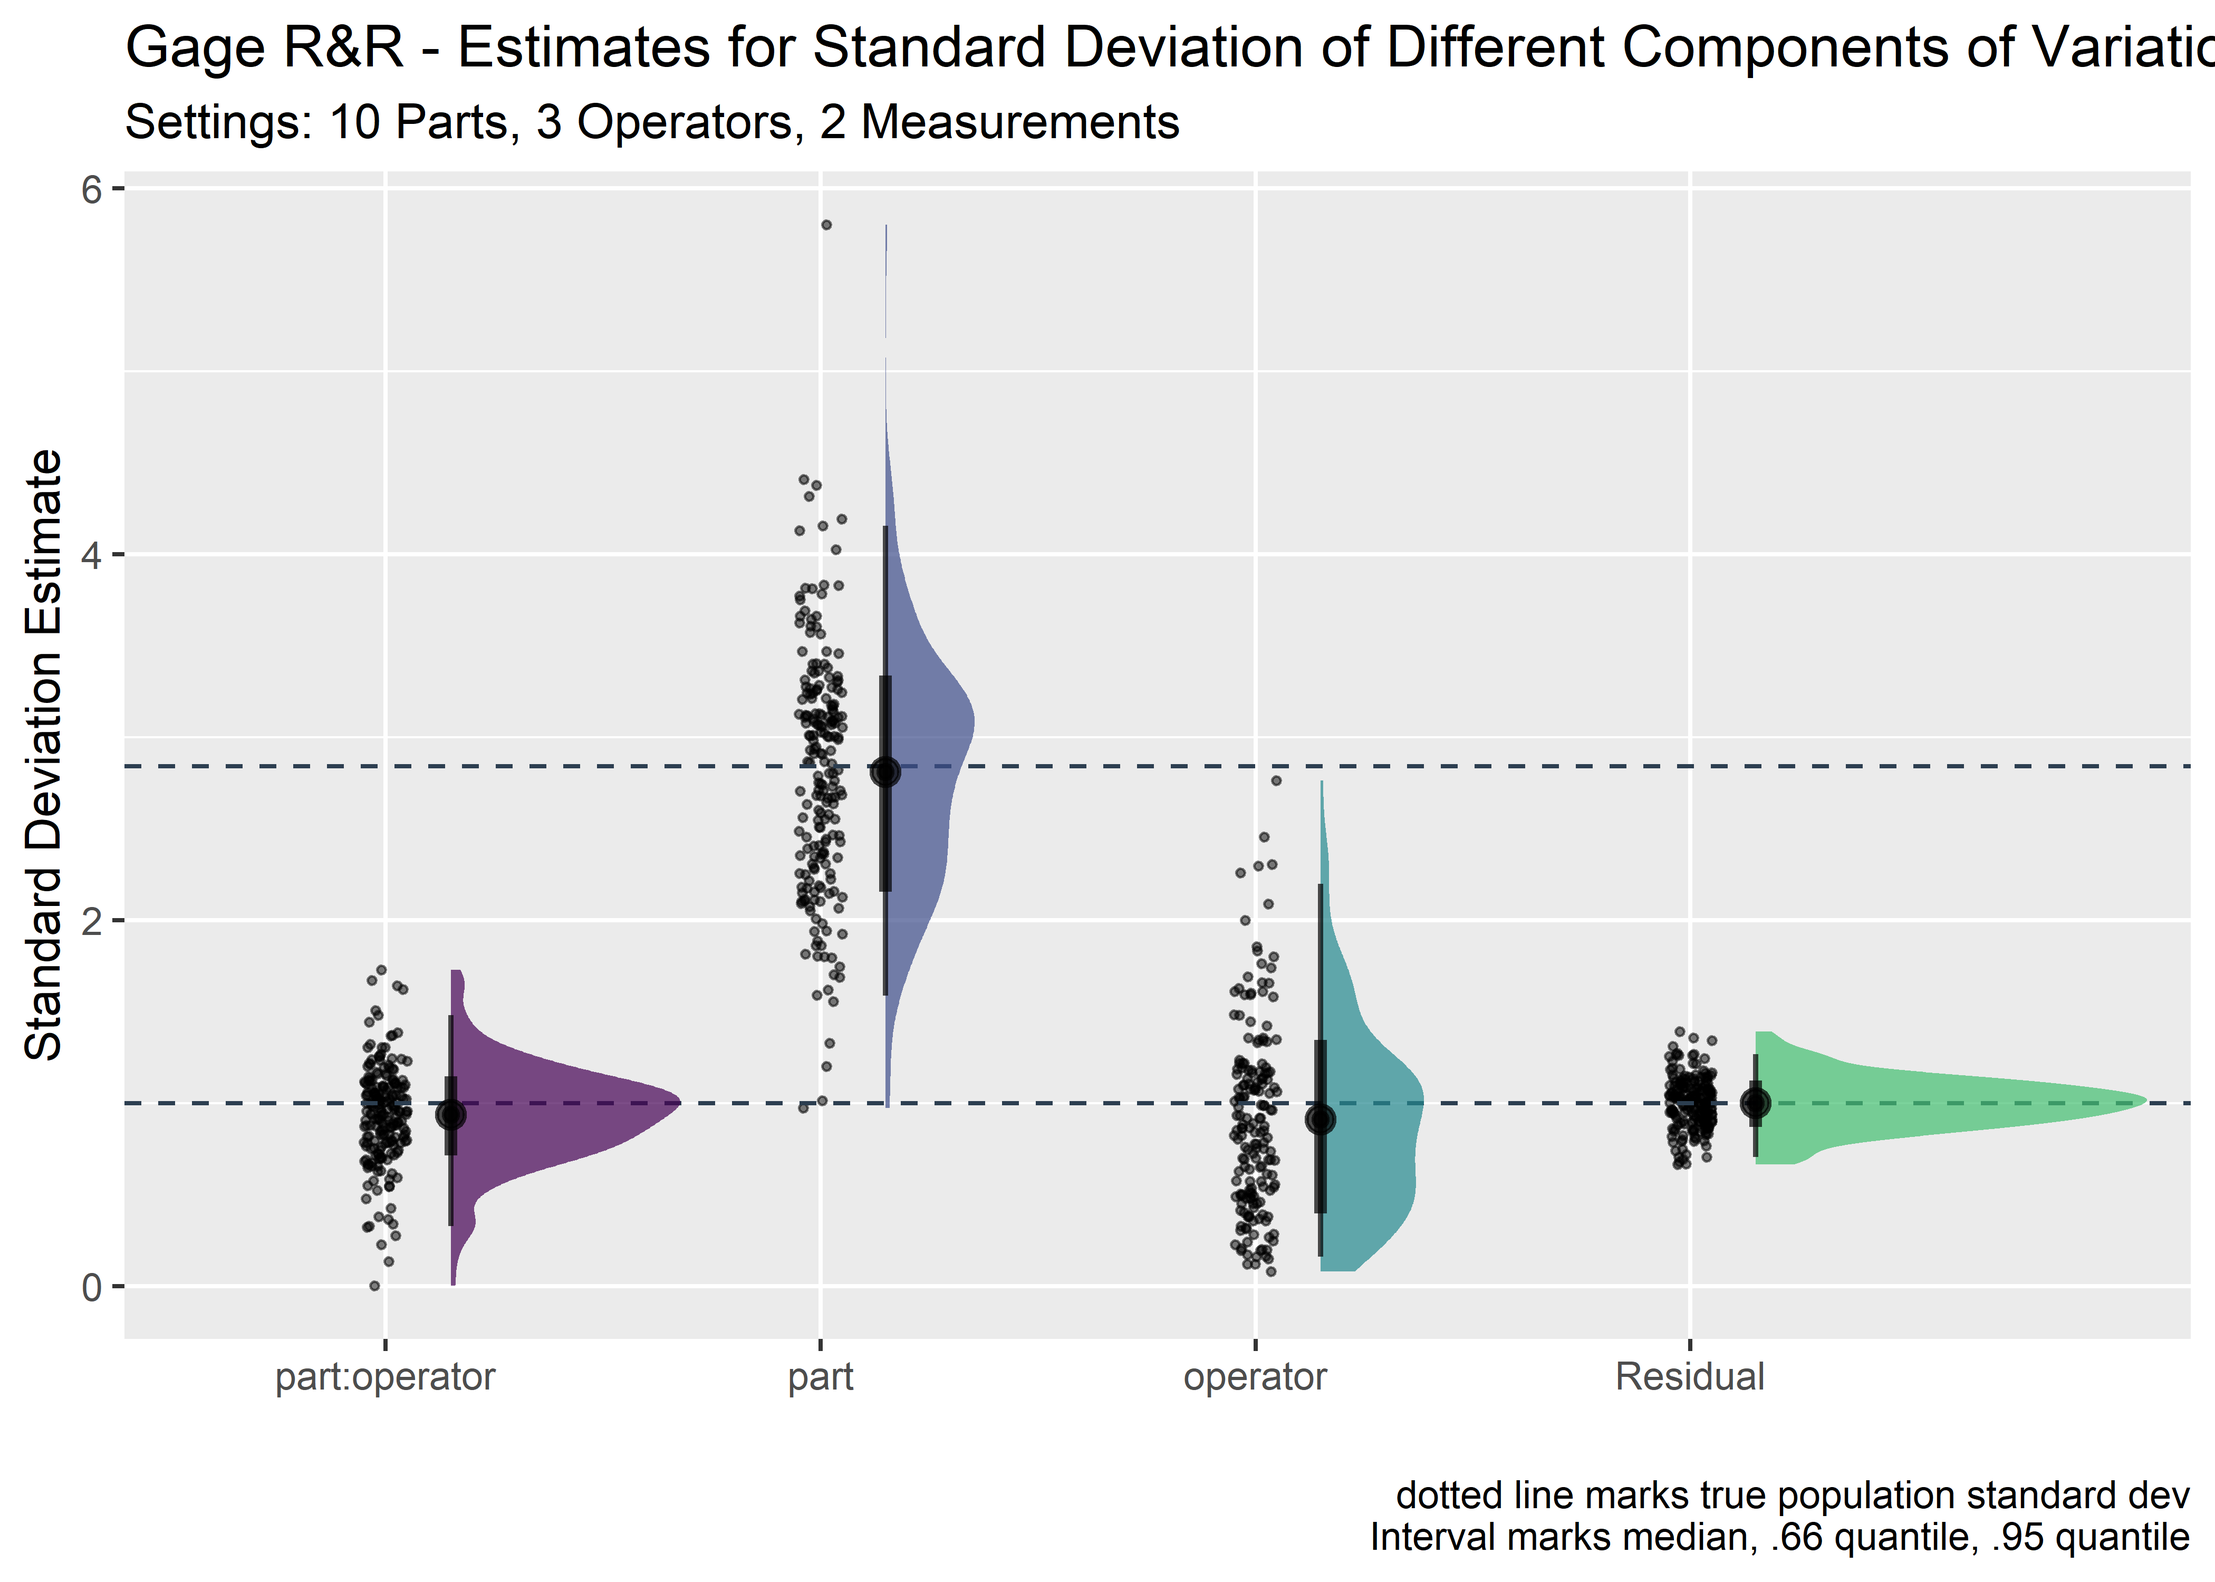
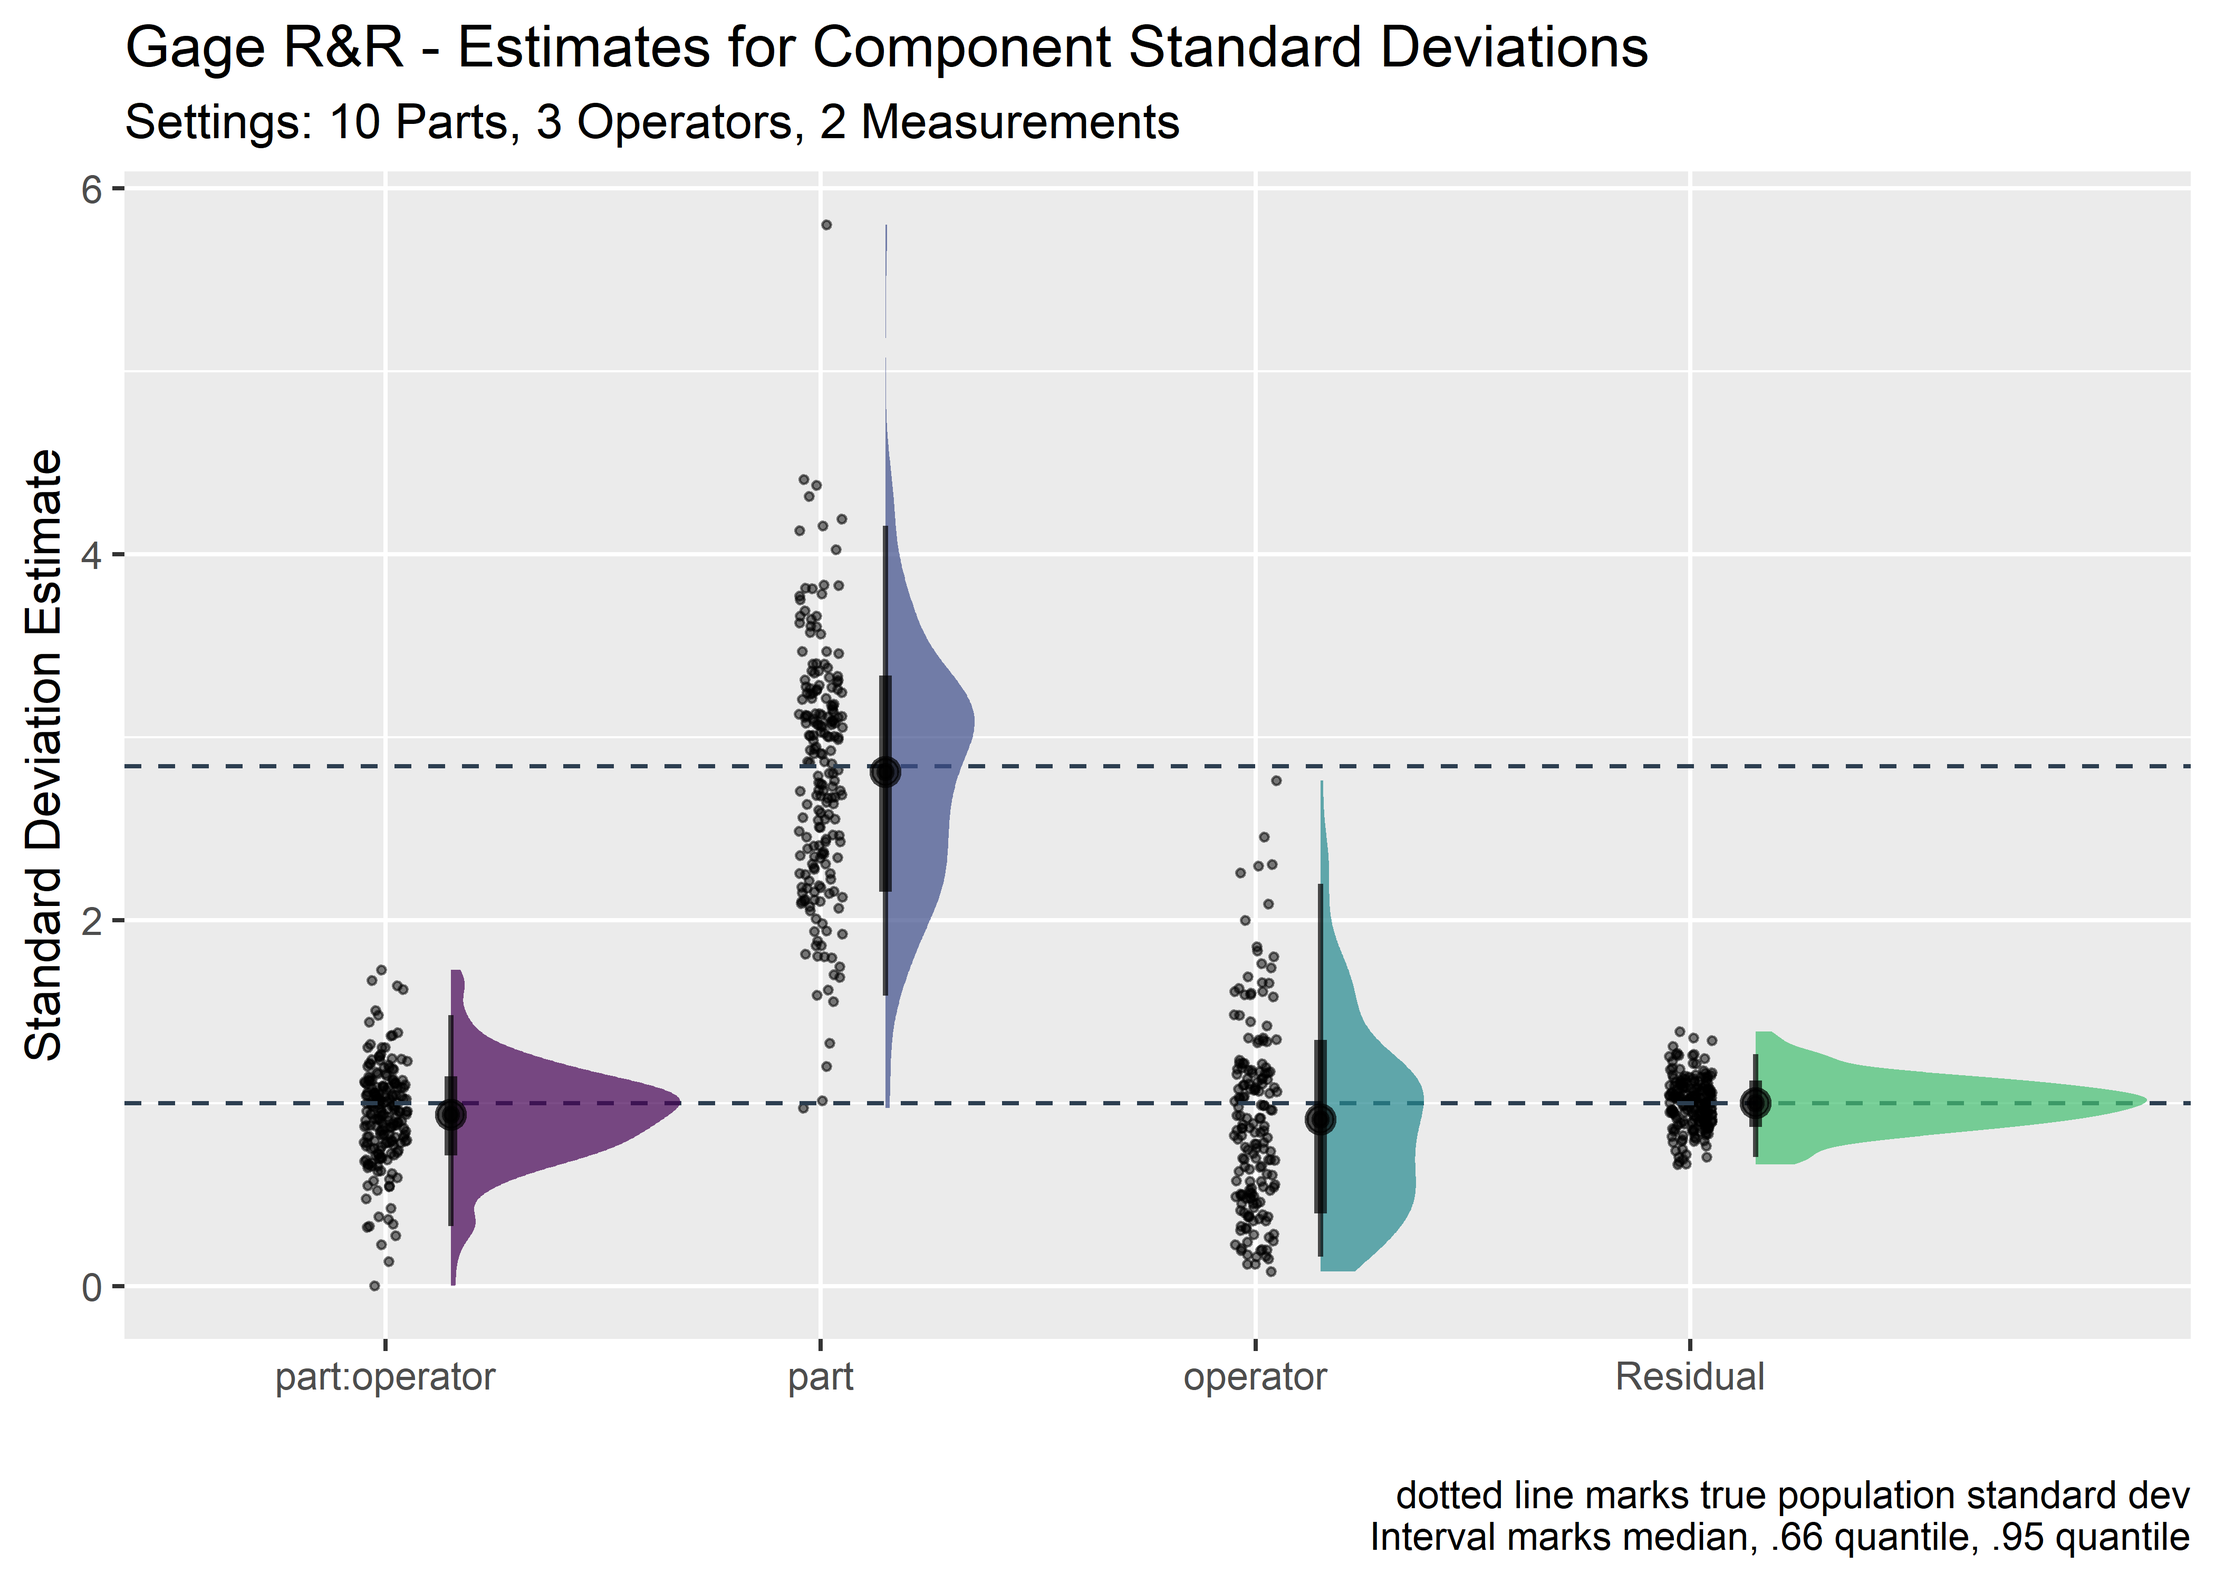
updated figure a caption
updated figure a caption

Changed region(s): [[0.3743, 0.0, 0.9045, 0.062], [0.9045, 0.0, 1.0, 0.062]]

diff --git a/content/post/2020-09-09-simulation-with-a-random-effects-model-gage-r-r-as-a-case-study.html b/content/post/2020-09-09-simulation-with-a-random-effects-model-gage-r-r-as-a-case-study.html
@@ -29,7 +29,7 @@ draft: FALSE
 <li>Visual inspection of implant surface and component interfaces</li>
 <li>Benchtop performance evaluation of implant</li>
 </ul>
-<p>The primary purpose of these costly and rigorous inspection processes is to screen out bad product. The ramifications of non-conforming parts reaching the field can be fatal. As such, it is important to understand any limitations of key measurement systems and, if possible, quantity their uncertainty. The primary statistical tool for this job is called Gage R&amp;R. The Gage R&amp;R attempts to quantify the total variation within a series of measurements and then describe the relative contributions of parts, operators, and repeated measurements (unexplained error). Operator error is called &quot;reproducability&quot;; unexplained error when a measurement is repeated under presumably identical conditions is called &quot;repeatability&quot;. The total variation among these components must be controlled and limited. A typical crossed structure is shown below: <a href="#fn2" class="footnoteRef" id="fnref2"><sup>2</sup></a></p>
+<p>The primary purpose of these costly and rigorous inspection processes is to screen out bad product. The ramifications of non-conforming parts reaching the field can be fatal. As such, it is important to understand any limitations of key measurement systems and, if possible, quantity their uncertainty. The primary statistical tool for this job is called Gage R&amp;R. The Gage R&amp;R attempts to quantify the total variation within a series of measurements and then describe the relative contributions of parts, operators, and repeated measurements (unexplained error). Operator error is called &quot;reproducibility&quot;; unexplained error when a measurement is repeated under presumably identical conditions is called &quot;repeatability&quot;. The total variation among these components must be controlled and limited. A typical crossed structure is shown below: <a href="#fn2" class="footnoteRef" id="fnref2"><sup>2</sup></a></p>
 <p><img src="/./img/crossed.png" width="100%" height="100%" style="display: block; margin: auto;" /></p>
 <p>Gage R&amp;R training for engineers usually involves:</p>
 <ul>
@@ -104,37 +104,37 @@ grr_dummy_tbl %&gt;%
 <tr class="odd">
 <td align="center">part_1</td>
 <td align="center">oper_1</td>
-<td align="center">9.658576</td>
+<td align="center">11.521931</td>
 </tr>
 <tr class="even">
 <td align="center">part_1</td>
 <td align="center">oper_1</td>
-<td align="center">10.897126</td>
+<td align="center">11.434057</td>
 </tr>
 <tr class="odd">
 <td align="center">part_1</td>
 <td align="center">oper_2</td>
-<td align="center">8.919642</td>
+<td align="center">10.773945</td>
 </tr>
 <tr class="even">
 <td align="center">part_1</td>
 <td align="center">oper_2</td>
-<td align="center">10.442563</td>
+<td align="center">11.629946</td>
 </tr>
 <tr class="odd">
 <td align="center">part_1</td>
 <td align="center">oper_3</td>
-<td align="center">10.706771</td>
+<td align="center">10.672087</td>
 </tr>
 <tr class="even">
 <td align="center">part_1</td>
 <td align="center">oper_3</td>
-<td align="center">9.217397</td>
+<td align="center">9.976531</td>
 </tr>
 <tr class="odd">
 <td align="center">part_2</td>
 <td align="center">oper_1</td>
-<td align="center">10.869825</td>
+<td align="center">11.543520</td>
 </tr>
 </tbody>
 </table>
@@ -153,37 +153,37 @@ grr_dummy_tbl %&gt;%
 <tr class="odd">
 <td align="center">part_9</td>
 <td align="center">oper_3</td>
-<td align="center">9.770813</td>
+<td align="center">10.001443</td>
 </tr>
 <tr class="even">
 <td align="center">part_10</td>
 <td align="center">oper_1</td>
-<td align="center">9.862329</td>
+<td align="center">9.087449</td>
 </tr>
 <tr class="odd">
 <td align="center">part_10</td>
 <td align="center">oper_1</td>
-<td align="center">9.044466</td>
+<td align="center">10.722729</td>
 </tr>
 <tr class="even">
 <td align="center">part_10</td>
 <td align="center">oper_2</td>
-<td align="center">8.769776</td>
+<td align="center">9.975832</td>
 </tr>
 <tr class="odd">
 <td align="center">part_10</td>
 <td align="center">oper_2</td>
-<td align="center">11.515547</td>
+<td align="center">8.495529</td>
 </tr>
 <tr class="even">
 <td align="center">part_10</td>
 <td align="center">oper_3</td>
-<td align="center">8.722872</td>
+<td align="center">9.980824</td>
 </tr>
 <tr class="odd">
 <td align="center">part_10</td>
 <td align="center">oper_3</td>
-<td align="center">10.689403</td>
+<td align="center">11.526295</td>
 </tr>
 </tbody>
 </table>
@@ -331,7 +331,7 @@ grr_sim_tbl %&gt;%
 </div>
 <div id="step-7-fit-a-model-to-the-simulated-obervations" class="section level2">
 <h2>Step 7: Fit a model to the simulated obervations</h2>
-<p>Once again we fit a model, but this time the observations are meaningful because we constructed them properly using the design matrix Z. broom.mixed::tidy() is able to bring the results into tibble format where we can clean a bit and view the variance contribution of each variable. This gives a point estimate of variance sd for the random effects that can be compared against the referent inputs.</p>
+<p>Once again we fit a model, but this time the observations are meaningful because we constructed them properly using the design matrix Z. broom.mixed::tidy() is able to bring the results into tibble format where we can clean a bit and view the variance contribution of each variable. This gives a point estimate of standard deviations for the random effects that can be compared against the reference inputs.</p>
 <pre class="r"><code># fit a model to the simulated dataset
 sim_m_fit &lt;- lmer(measurement ~ (1 | part) + (1 | operator) + (1 | part:operator), data = grr_sim_tbl)
 
@@ -964,7 +964,7 @@ sim_setup_tbl %&gt;% kable(align = &quot;c&quot;)</code></pre>
   #    stat_summary(fun.y= mean, fun.ymin=mean, fun.ymax=mean, geom=&quot;crossbar&quot;, width=0.2, color=&quot;red&quot;) +
   stat_halfeye(aes(fill = variable), point_interval = mean_qi, alpha = .7, position = position_nudge(x = .15)) +
   labs(
-    title = &quot;Gage R&amp;R - Estimates for Standard Deviation of Different Components of Variation&quot;,
+    title = &quot;Gage R&amp;R - Estimates for Component Standard Deviations&quot;,
     subtitle = str_glue(&quot;Settings: {sim_outcomes_tbl$n_part[1]} Parts, {sim_outcomes_tbl$n_oper[1]} Operators, {sim_outcomes_tbl$n_meas[1]} Measurements&quot;),
     x = &quot;&quot;,
     y = &quot;Standard Deviation Estimate&quot;,

diff --git a/public/post/simulation-with-a-random-effects-model-gage-r-r-as-a-case-study/index.html b/public/post/simulation-with-a-random-effects-model-gage-r-r-as-a-case-study/index.html
@@ -266,7 +266,7 @@
 <li>Visual inspection of implant surface and component interfaces</li>
 <li>Benchtop performance evaluation of implant</li>
 </ul>
-<p>The primary purpose of these costly and rigorous inspection processes is to screen out bad product. The ramifications of non-conforming parts reaching the field can be fatal. As such, it is important to understand any limitations of key measurement systems and, if possible, quantity their uncertainty. The primary statistical tool for this job is called Gage R&amp;R. The Gage R&amp;R attempts to quantify the total variation within a series of measurements and then describe the relative contributions of parts, operators, and repeated measurements (unexplained error). Operator error is called &quot;reproducability&quot;; unexplained error when a measurement is repeated under presumably identical conditions is called &quot;repeatability&quot;. The total variation among these components must be controlled and limited. A typical crossed structure is shown below: <a href="#fn2" class="footnoteRef" id="fnref2"><sup>2</sup></a></p>
+<p>The primary purpose of these costly and rigorous inspection processes is to screen out bad product. The ramifications of non-conforming parts reaching the field can be fatal. As such, it is important to understand any limitations of key measurement systems and, if possible, quantity their uncertainty. The primary statistical tool for this job is called Gage R&amp;R. The Gage R&amp;R attempts to quantify the total variation within a series of measurements and then describe the relative contributions of parts, operators, and repeated measurements (unexplained error). Operator error is called &quot;reproducibility&quot;; unexplained error when a measurement is repeated under presumably identical conditions is called &quot;repeatability&quot;. The total variation among these components must be controlled and limited. A typical crossed structure is shown below: <a href="#fn2" class="footnoteRef" id="fnref2"><sup>2</sup></a></p>
 <p><img src="/./img/crossed.png" width="100%" height="100%" style="display: block; margin: auto;" /></p>
 <p>Gage R&amp;R training for engineers usually involves:</p>
 <ul>
@@ -341,37 +341,37 @@ grr_dummy_tbl %&gt;%
 <tr class="odd">
 <td align="center">part_1</td>
 <td align="center">oper_1</td>
-<td align="center">9.658576</td>
+<td align="center">11.521931</td>
 </tr>
 <tr class="even">
 <td align="center">part_1</td>
 <td align="center">oper_1</td>
-<td align="center">10.897126</td>
+<td align="center">11.434057</td>
 </tr>
 <tr class="odd">
 <td align="center">part_1</td>
 <td align="center">oper_2</td>
-<td align="center">8.919642</td>
+<td align="center">10.773945</td>
 </tr>
 <tr class="even">
 <td align="center">part_1</td>
 <td align="center">oper_2</td>
-<td align="center">10.442563</td>
+<td align="center">11.629946</td>
 </tr>
 <tr class="odd">
 <td align="center">part_1</td>
 <td align="center">oper_3</td>
-<td align="center">10.706771</td>
+<td align="center">10.672087</td>
 </tr>
 <tr class="even">
 <td align="center">part_1</td>
 <td align="center">oper_3</td>
-<td align="center">9.217397</td>
+<td align="center">9.976531</td>
 </tr>
 <tr class="odd">
 <td align="center">part_2</td>
 <td align="center">oper_1</td>
-<td align="center">10.869825</td>
+<td align="center">11.543520</td>
 </tr>
 </tbody>
 </table>
@@ -390,37 +390,37 @@ grr_dummy_tbl %&gt;%
 <tr class="odd">
 <td align="center">part_9</td>
 <td align="center">oper_3</td>
-<td align="center">9.770813</td>
+<td align="center">10.001443</td>
 </tr>
 <tr class="even">
 <td align="center">part_10</td>
 <td align="center">oper_1</td>
-<td align="center">9.862329</td>
+<td align="center">9.087449</td>
 </tr>
 <tr class="odd">
 <td align="center">part_10</td>
 <td align="center">oper_1</td>
-<td align="center">9.044466</td>
+<td align="center">10.722729</td>
 </tr>
 <tr class="even">
 <td align="center">part_10</td>
 <td align="center">oper_2</td>
-<td align="center">8.769776</td>
+<td align="center">9.975832</td>
 </tr>
 <tr class="odd">
 <td align="center">part_10</td>
 <td align="center">oper_2</td>
-<td align="center">11.515547</td>
+<td align="center">8.495529</td>
 </tr>
 <tr class="even">
 <td align="center">part_10</td>
 <td align="center">oper_3</td>
-<td align="center">8.722872</td>
+<td align="center">9.980824</td>
 </tr>
 <tr class="odd">
 <td align="center">part_10</td>
 <td align="center">oper_3</td>
-<td align="center">10.689403</td>
+<td align="center">11.526295</td>
 </tr>
 </tbody>
 </table>
@@ -568,7 +568,7 @@ grr_sim_tbl %&gt;%
 </div>
 <div id="step-7-fit-a-model-to-the-simulated-obervations" class="section level2">
 <h2>Step 7: Fit a model to the simulated obervations</h2>
-<p>Once again we fit a model, but this time the observations are meaningful because we constructed them properly using the design matrix Z. broom.mixed::tidy() is able to bring the results into tibble format where we can clean a bit and view the variance contribution of each variable. This gives a point estimate of variance sd for the random effects that can be compared against the referent inputs.</p>
+<p>Once again we fit a model, but this time the observations are meaningful because we constructed them properly using the design matrix Z. broom.mixed::tidy() is able to bring the results into tibble format where we can clean a bit and view the variance contribution of each variable. This gives a point estimate of standard deviations for the random effects that can be compared against the reference inputs.</p>
 <pre class="r"><code># fit a model to the simulated dataset
 sim_m_fit &lt;- lmer(measurement ~ (1 | part) + (1 | operator) + (1 | part:operator), data = grr_sim_tbl)
 
@@ -1201,7 +1201,7 @@ sim_setup_tbl %&gt;% kable(align = &quot;c&quot;)</code></pre>
   #    stat_summary(fun.y= mean, fun.ymin=mean, fun.ymax=mean, geom=&quot;crossbar&quot;, width=0.2, color=&quot;red&quot;) +
   stat_halfeye(aes(fill = variable), point_interval = mean_qi, alpha = .7, position = position_nudge(x = .15)) +
   labs(
-    title = &quot;Gage R&amp;R - Estimates for Standard Deviation of Different Components of Variation&quot;,
+    title = &quot;Gage R&amp;R - Estimates for Component Standard Deviations&quot;,
     subtitle = str_glue(&quot;Settings: {sim_outcomes_tbl$n_part[1]} Parts, {sim_outcomes_tbl$n_oper[1]} Operators, {sim_outcomes_tbl$n_meas[1]} Measurements&quot;),
     x = &quot;&quot;,
     y = &quot;Standard Deviation Estimate&quot;,
